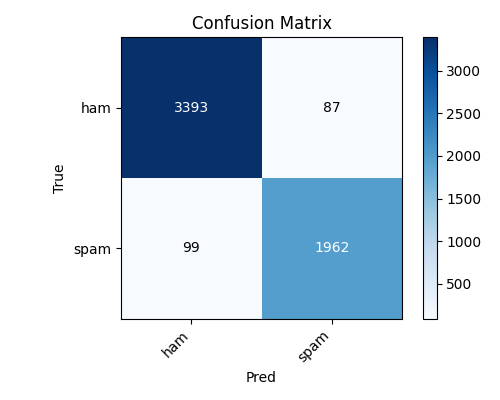
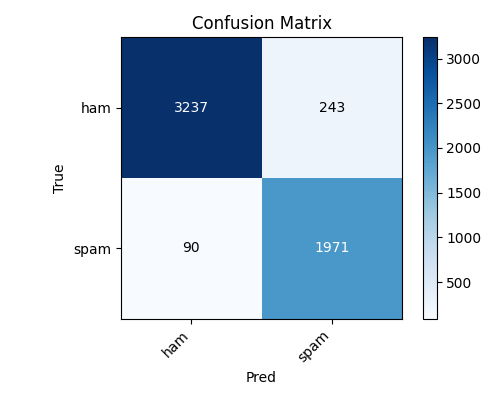
Update article soradna dela and lastna ideja

diff --git a/docs/article.tex b/docs/article.tex
@@ -171,59 +171,99 @@
     sporočil, ki temeljijo na različnih algoritmih strojnega učenja, kjer bomo primerjali
     njihovo natančnost, hitrost in učinkovitost. 
 
-    V nadaljevanju članka bomo najprej predstavili sorodna dela na področju klasifikacije 
-    SMS sporočil, nato pa bomo opisali našo lastno idejo in pristop k reševanju problema 
-    klasifikacije SMS sporočil. Na koncu bomo predstavili rezultate naših eksperimentov in 
-    zaključek.
+    % V nadaljevanju članka bomo najprej predstavili sorodna dela na področju klasifikacije 
+    % SMS sporočil, nato pa bomo opisali našo lastno idejo in pristop k reševanju problema 
+    % klasifikacije SMS sporočil. Na koncu bomo predstavili rezultate naših eksperimentov in 
+    % zaključek.
+
+% \section{Sorodna dela}
+%     Klasifikacija nezaželenih SMS sporočil se zaradi omejene dolžine besedila in specifičnega
+%     sloga jezika, kot so kratice ali emojiji, predvsem razlikuje od klasične elektronske pošte.
+%     Kljub temu so prisotne različne raziskave \cite{lota2017systematic}.
+
+%     Avtorji Xu in sodelavci so se v svoji raziskavi osredotočili na detekcijo brez uporabe 
+%     vsebine sporočil (angl. non-content features). Namesto analize besedila so preučevali 
+%     metapodatke in vedenjske vzorce. Rezultati kažejo na visoko natančnost brez potrebe po poseganju
+%     v zasebnost vsebine sporočil \cite{6133257}.
+    
+%     Shirani-Mehra v svojem delu primerja več različnih klasičnih metod strojnega učenja, kot so naivni Bayesov klasifikator, 
+%     logistična regresija, naključni gozd in SVM. Njegovi rezultati potrjujejo visoko učinkovitost teh 
+%     pristopov pri binarni klasifikaciji SMS sporočil \cite{shirani2013}. 
+
+%     Aktualni so tudi pristopi, ki naslavljajo problem večjezične klasifikacije besedil z uporabo globokih nevronskih modelov. 
+%     Modeli, kot sta večjezični BERT (mBERT) in XLM-R, omogočajo učenje skupnih predstavitev za več jezikov ter prenos znanja 
+%     med njimi \cite{devlin2019, conneau2020}. Takšni pristopi omogočajo učenje na enem jeziku in uporabo modela na drugem brez 
+%     potrebe po obsežnih označenih podatkih v ciljnem jeziku.
+
 
 \section{Sorodna dela}
-    Klasifikacija nezaželenih SMS sporočil se zaradi omejene dolžine besedila in specifičnega
-    sloga jezika, kot so kratice ali emojiji, predvsem razlikuje od klasične elektronske pošte.
-    Kljub temu so prisotne različne raziskave \cite{lota2017systematic}.
 
-    Avtorji Xu in sodelavci so se v svoji raziskavi osredotočili na detekcijo brez uporabe 
-    vsebine sporočil (angl. non-content features). Namesto analize besedila so preučevali 
-    metapodatke in vedenjske vzorce. Rezultati kažejo na visoko natančnost brez potrebe po poseganju
-    v zasebnost vsebine sporočil \cite{6133257}.
-    
-    Shirani-Mehra v svojem delu primerja več različnih klasičnih metod strojnega učenja, kot so naivni Bayesov klasifikator, 
-    logistična regresija, naključni gozd in SVM. Njegovi rezultati potrjujejo visoko učinkovitost teh 
-    pristopov pri binarni klasifikaciji SMS sporočil \cite{shirani2013}. 
+Področje detekcije neželenih SMS sporočil se je skozi leta razvijalo od uporabe enostavnih statističnih metod do kompleksnih arhitektur, temelječih na transformatorjih. Raziskave se ločijo predvsem po tem, ali za klasifikacijo uporabljajo zgolj vsebino sporočila ali pa vključujejo tudi metapodatke.
 
-    Aktualni so tudi pristopi, ki naslavljajo problem večjezične klasifikacije besedil z uporabo globokih nevronskih modelov. 
-    Modeli, kot sta večjezični BERT (mBERT) in XLM-R, omogočajo učenje skupnih predstavitev za več jezikov ter prenos znanja 
-    med njimi \cite{devlin2019, conneau2020}. Takšni pristopi omogočajo učenje na enem jeziku in uporabo modela na drugem brez 
-    potrebe po obsežnih označenih podatkih v ciljnem jeziku.
+Zgodnejši pristopi so se močno opirali na ne-vsebinske lastnosti sporočil. V raziskavi~\cite{6133257} so dokazali, da lahko uporaba metapodatkov, kot so čas pošiljanja, pogostost sporočil in omrežne značilnosti, bistveno pripomore k natančnosti detekcije, še posebej pri uporabi algoritmov, kot so podporni vektorji (SVM). Kljub temu se večina sodobnih raziskav osredotoča na analizo samega besedila, saj so vsebinski vzorci vsiljivih sporočil pogosto bolj univerzalni.
+
+Z vzponom globokega učenja so se pojavile arhitekture, ki bolje razumejo semantiko kratkih besedil. V raziskavi~\cite{9433507} so predstavili model \emph{Spam Transformer}, ki z mehanizmom pozornosti (angl. \emph{attention}) učinkovito naslavlja izzive neformalnega jezika in kratic v SMS sporočilih. Sistematični pregledi področja~\cite{lota2017systematic} kažejo, da so se meje zmogljivosti modelov premaknile predvsem z integracijo prednaučenih jezikovnih modelov.
+
+Kot najsodobnejše izhodišče na tem področju izstopa članek~\cite{inturi2025}. Avtorji v tem delu naslavljajo problem pomanjkanja označenih podatkov v različnih jezikih z uporabo večjezikovnega modela mBERT. Raziskava dokazuje, da je mogoče model, naučen izključno na angleških podatkih, uspešno uporabiti za detekcijo vsiljivih sporočil v strukturno različnih jezikih, kot so hindijščina, telugu in bengalščina, brez kakršnegakoli dodatnega učenja na ciljnih jezikih (angl. \emph{zero-shot learning}).
+
+Vzporedno s tem so druge študije raziskovale jezikovno nevtralnost mBERT-a~\cite{pires2019} in zmogljivost modelov tipa XLM-R~\cite{conneau2020} pri medjezikovnem prenosu znanja. V članku~\cite{zhao2021closer} so dodatno analizirali strategije prilagajanja modelov (angl. \emph{fine-tuning}) in ugotovili, da uporaba majhnega števila primerov (angl. \emph{few-shot learning}) v ciljnem jeziku znatno stabilizira napovedi modela v primerjavi s povsem ničelnim učenjem. Razvoj se v zadnjem času usmerja tudi v optimizacijo teh modelov, kjer se s tehnikami, kot je destilacija znanja v model TinyBERT~\cite{jiao-etal-2020-tinybert}, poskuša ohraniti visoko zmogljivost ob drastičnem zmanjšanju računske zahtevnosti.
+
+
+% \section{Lastna ideja}
+%     Na podlagi pregleda obstoječih pristopov za detekcijo neželenih SMS sporočil ugotovimo, da večina metod uporablja 
+%     učenje in vrednotenje modelov znotraj enega jezika, najpogosteje v angleščini~\cite{shirani2013,sethi2017}. Takšen 
+%     pristop omeji uporabo v praksi le na en jezik. To lahko rešimo z uporabo učenja brez primerov (angl. zero-shot learning) 
+%     in medjezikovni prenos (angl. cross-lingual transfer). Ta pristopa omogočata prenos znanja med jeziki brez dodatnega 
+%     učenja na ciljnem jeziku~\cite{pires2019, conneau2020}.
+
+%     Pristop temelji na večjezikovnih modelih, kot sta mBERT~\cite{devlin2019} in Tiny-BERT~\cite{jiao-etal-2020-tinybert}. 
+%     Modela sta naučena na besedilih v več kot sto jezikih, tudi v slovenščini. Učenje brez primerov in medjezikovni 
+%     prenos omogočata, da model, naučen na angleških podatkih, prepozna semantične vzorce v ciljnem jeziku brez dodatnega 
+%     označevanja~\cite{pires2019}. Za izhodišče reproduciramo eksperimente Shirani-Mehre~\cite{shirani2013}, ki uporabljajo
+%     klasične metode, kot so naivni Bayesov klasifikator, SVM in logistična regresija, na angleškem naboru 
+%     podatkov~\cite{DatasetSpamSMS}. Ti rezultati služijo kot osnova za nadaljnjo primerjavo.
+
+%     Osnovni pristop bomo nadgradili na dva načina. Prvi je metoda prevedi in razvrsti (angl. translate-then-classify). 
+%     Slovenska sporočila najprej prevedemo v angleščino, nato jih klasificiramo z modelom, naučenim na angleških podatkih, s 
+%     čimer preverimo vpliv prevajanja na rezultate. Ker ne obstaja namenski slovenski nabor podatkov za neželena SMS sporočila, 
+%     ustvarimo manjši testni nabor, kjer lahko uporabimo strojni prevod originalnih angleških sporočil in ohranimo obstoječe
+%     oznake. Testiranje bomo izvedli tudi v drugo smer, torej vzeli bomo slovenska sporočila in jih prevedli v angleščino,
+%     nato pa jih klasificirali z modelom, naučenim na angleških podatkih, ter primerjali s klasifikacijo, ki jo dobimo, če jih
+%     klasificiramo neposredno v slovenščini.
+%     Drugi način vključuje učenje z nekaj primeri (angl. few-shot learning) in fino prilagajanje (angl. fine-tuning). Model 
+%     dodatno prilagodimo z majhnim številom slovenskih primerov~\cite{zhao2021closer}. Tako ocenimo, kako hitro se model 
+%     prilagodi novemu jeziku in koliko podatkov zadostuje za izboljšanje.
+
+%     Predlagani pristop izboljša obstoječe metode~\cite{lota2017systematic}. Omogoča uporabo modelov v večjezičnih okoljih 
+%     brez obsežnega označevanja za vsak jezik. To je pomembno za manj zastopane jezike, kot je slovenščina, kjer je podatkov 
+%     malo. Z eksperimentalno primerjavo treh pristopov, učenja brez primerov, metode prevedi in razvrsti ter učenja z nekaj 
+%     primeri, ocenimo razmerje med zmogljivostjo, stroški označevanja in uporabnostjo v praksi.
 
 \section{Lastna ideja}
-    Na podlagi pregleda obstoječih pristopov za detekcijo neželenih SMS sporočil ugotovimo, da večina metod uporablja 
-    učenje in vrednotenje modelov znotraj enega jezika, najpogosteje v angleščini~\cite{shirani2013,sethi2017}. Takšen 
-    pristop omeji uporabo v praksi le na en jezik. To lahko rešimo z uporabo učenja brez primerov (angl. zero-shot learning) 
-    in medjezikovni prenos (angl. cross-lingual transfer). Ta pristopa omogočata prenos znanja med jeziki brez dodatnega 
-    učenja na ciljnem jeziku~\cite{pires2019, conneau2020}.
 
-    Pristop temelji na večjezikovnih modelih, kot sta mBERT~\cite{devlin2019} in XLM-RoBERTa~\cite{conneau2020}. 
-    Modela sta naučena na besedilih v več kot sto jezikih, tudi v slovenščini. Učenje brez primerov in medjezikovni 
-    prenos omogočata, da model, naučen na angleških podatkih, prepozna semantične vzorce v ciljnem jeziku brez dodatnega 
-    označevanja~\cite{pires2019}. Za izhodišče reproduciramo eksperimente Shirani-Mehre~\cite{shirani2013}, ki uporabljajo
-    klasične metode, kot so naivni Bayesov klasifikator, SVM in logistična regresija, na angleškem naboru 
-    podatkov~\cite{DatasetSpamSMS}. Ti rezultati služijo kot osnova za nadaljnjo primerjavo.
+Na podlagi pregleda obstoječih pristopov ugotavljamo, da se večina raziskav osredotoča na detekcijo neželenih 
+sporočil znotraj enega jezika, običajno angleščine~\cite{sethi2017}. Osrednji izziv naše lastne ideje je 
+razširitev teh pristopov v večjezično domeno z uporabo modelov, ki so primerni za uporabo v realnem času 
+na napravah z omejenimi viri. 
 
-    Osnovni pristop bomo nadgradili na dva načina. Prvi je metoda prevedi in razvrsti (angl. translate-then-classify). 
-    Slovenska sporočila najprej prevedemo v angleščino, nato jih klasificiramo z modelom, naučenim na angleških podatkih, s 
-    čimer preverimo vpliv prevajanja na rezultate. Ker ne obstaja namenski slovenski nabor podatkov za neželena SMS sporočila, 
-    ustvarimo manjši testni nabor, kjer lahko uporabimo strojni prevod originalnih angleških sporočil in ohranimo obstoječe
-    oznake. Testiranje bomo izvedli tudi v drugo smer, torej vzeli bomo slovenska sporočila in jih prevedli v angleščino,
-    nato pa jih klasificirali z modelom, naučenim na angleških podatkih, ter primerjali s klasifikacijo, ki jo dobimo, če jih
-    klasificiramo neposredno v slovenščini.
-    Drugi način vključuje učenje z nekaj primeri (angl. few-shot learning) in fino prilagajanje (angl. fine-tuning). Model 
-    dodatno prilagodimo z majhnim številom slovenskih primerov~\cite{zhao2021closer}. Tako ocenimo, kako hitro se model 
-    prilagodi novemu jeziku in koliko podatkov zadostuje za izboljšanje.
+Naš pristop temelji na neposredni rekreaciji in nadgradnji metodologije, predstavljene v članku~\cite{inturi2025}. 
+Medtem ko se omenjeni članek osredotoča na model mBERT~\cite{devlin2019} in prenos znanja na indijske jezike 
+(hindijščina, telugu, bengalščina), mi našo raziskavo razširimo na slovenski jezik ter vpeljemo uporabo 
+kompaktnega modela TinyBERT~\cite{jiao-etal-2020-tinybert}.
 
-    Predlagani pristop izboljša obstoječe metode~\cite{lota2017systematic}. Omogoča uporabo modelov v večjezičnih okoljih 
-    brez obsežnega označevanja za vsak jezik. To je pomembno za manj zastopane jezike, kot je slovenščina, kjer je podatkov 
-    malo. Z eksperimentalno primerjavo treh pristopov, učenja brez primerov, metode prevedi in razvrsti ter učenja z nekaj 
-    primeri, ocenimo razmerje med zmogljivostjo, stroški označevanja in uporabnostjo v praksi.
+Uporaba modela TinyBERT predstavlja ključni del naše rešitve, saj naslavlja potrebo po izvajanju klasifikacije 
+neposredno na mobilnih napravah. S tem zagotavljamo visoko stopnjo zasebnosti (lokalna obdelava), odzivnost brez 
+omrežne povezave in energetsko učinkovitost, kar je za praktično uporabo na telefonih bistveno.
+
+Eksperimentalno evalvacijo izvedemo s primerjavo obeh modelov (mBERT in TinyBERT) na jezikovnem paru 
+angleščina-slovenščina, pri čemer uporabimo naslednje strategije:
+\begin{itemize}
+    \item \textbf{Učenje brez primerov (zero-shot):} Oba modela (večji mBERT in mobilni TinyBERT) naučimo na angleških podatkih ter ju neposredno preizkusimo na slovenskem testnem naboru. S tem ocenimo osnovno sposobnost medjezikovnega prenosa pri različno zahtevnih arhitekturah.
+    \item \textbf{Učenje z nekaj primeri (few-shot):} Modela dodatno fino prilagodimo z majhnim naborom slovenskih sporočil~\cite{zhao2021closer}. Cilj je ugotoviti, v kolikšni meri lahko majhna količina lokalnih podatkov kompenzira manjšo kapaciteto mobilnega modela TinyBERT.
+    \item \textbf{Metoda prevedi in razvrsti (translate-then-classify):} Slovenska sporočila strojno prevedemo v angleščino in jih klasificiramo z angleškim modelom, kar služi kot referenčna točka za oceno kakovosti neposrednega večjezičnega prenosa.
+\end{itemize}
+
+Z združevanjem večjezičnega učenja brez primerov in optimizacije za mobilne naprave naša ideja zapolnjuje vrzel med teoretičnimi modeli in njihovo dejansko uporabnostjo v okoljih z omejenimi viri in specifičnimi jeziki, kot je slovenščina.
 
 \section{Načrt eksperimentov}
     V tem razdelku podamo načrt eksperimentov za primerjavo rezultatov iz literature z rezultati lastnih metod.
